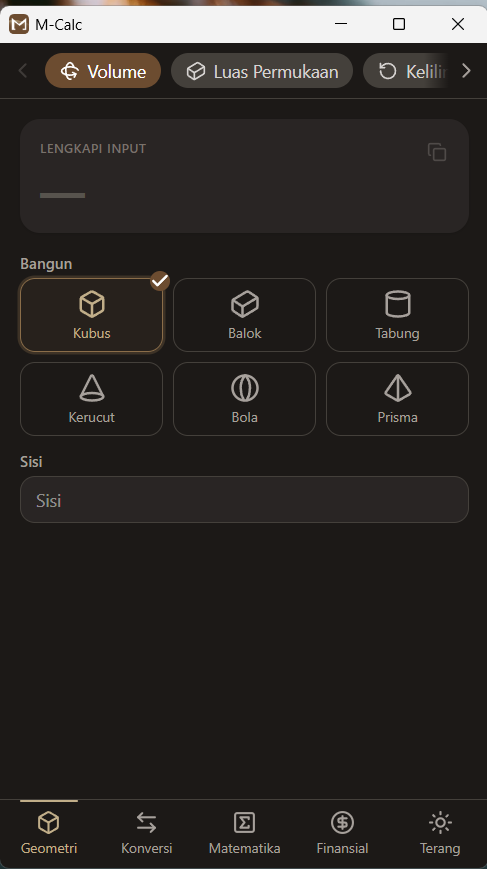
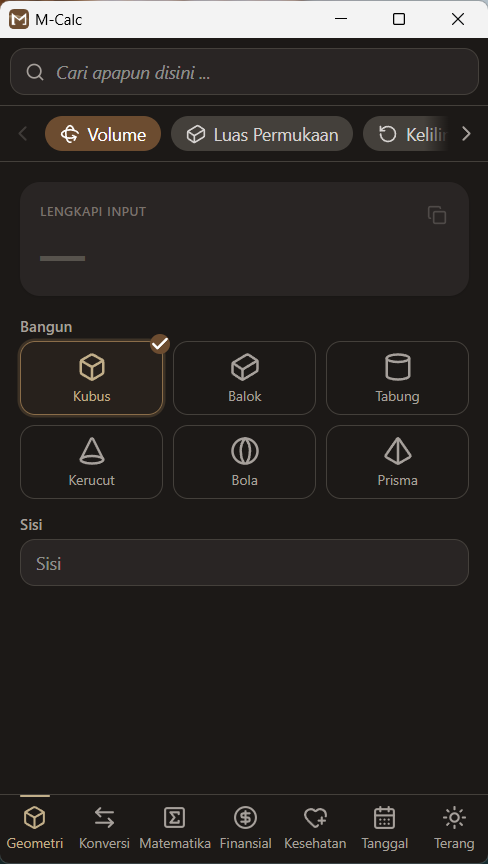
Update README for v0.2.x: 58 tools, search, new screenshots (no emoji)

diff --git a/README.md b/README.md
@@ -1,18 +1,22 @@
 # M-Calc
 
-Kalkulator serbaguna **ringan** untuk desktop Windows — 32 alat hitung dalam satu
-jendela compact. Penulisan ulang `kalkulator-serbaguna` (single-file HTML) menjadi
-aplikasi native dengan Tauri.
+Kalkulator serbaguna **ringan** untuk desktop Windows — 58 alat hitung dalam satu
+jendela compact, lengkap dengan pencarian global. Penulisan ulang
+`kalkulator-serbaguna` (single-file HTML) menjadi aplikasi native dengan Tauri.
 
 <p align="center">
-  <img src="screenshots/light.png" width="300" alt="M-Calc mode terang" />
-  &nbsp;&nbsp;
-  <img src="screenshots/dark.png" width="300" alt="M-Calc mode gelap" />
+  <img src="screenshots/light.png" width="260" alt="M-Calc mode terang" />
+  &nbsp;
+  <img src="screenshots/dark.png" width="260" alt="M-Calc mode gelap" />
+  &nbsp;
+  <img src="screenshots/search.png" width="260" alt="Pencarian global M-Calc" />
 </p>
 
-## ✨ Fitur
+## Fitur
 
-- **32 alat** dalam 4 kategori (navigasi bottom-tabs + chip per alat)
+- **58 alat** dalam 6 kategori (navigasi bottom-tabs + chip per alat)
+- **Pencarian global instan** — ketik kata kunci (mis. `persegi`, `ppn`, `bmi`);
+  hasil mencakup deep-link per bentuk, mendukung sinonim Indonesia dan Inggris
 - **Perhitungan live** — hasil langsung muncul saat mengetik, tanpa tombol
 - **Salin hasil** ke clipboard sekali klik
 - **Mode terang & gelap** dengan palet cokelat serasi logo
@@ -22,44 +26,52 @@ aplikasi native dengan Tauri.
 
 | Kategori | Alat |
 |---|---|
-| 📐 **Geometri** | Volume · Luas Permukaan · Keliling · Luas Datar · Pythagoras · Jarak 2 Titik · Diagonal · Juring & Busur · Gradien Garis |
-| 🔄 **Konversi** | Berat · Jarak · Suhu · Mata Uang · Waktu · Kecepatan · Luas · Volume Cairan · Data Digital · Bilangan (basis) |
-| % **Matematika** | Persentase · Pecahan · Skala · FPB & KPK · Persamaan Kuadrat · Statistik · Permutasi & Kombinasi |
-| 💰 **Finansial** | Diskon · Cicilan · Untung/Rugi · Margin & Markup · Bunga · Zakat |
+| **Geometri** | Volume · Luas Permukaan · Keliling · Luas Datar · Pythagoras · Jarak 2 Titik · Diagonal · Juring & Busur · Gradien Garis |
+| **Konversi** | Berat · Jarak · Suhu · Mata Uang · Waktu · Kecepatan · Luas · Volume Cairan · Data Digital · Bilangan (basis) · Tekanan · Energi · Daya · Sudut · Angka Romawi · Konsumsi BBM |
+| **Matematika** | Persentase · Pecahan · Skala · FPB & KPK · Persamaan Kuadrat · Statistik · Permutasi & Kombinasi · Trigonometri · Logaritma & Pangkat · Barisan & Deret · Faktorisasi Prima |
+| **Finansial** | Diskon · Cicilan · Untung/Rugi · Margin & Markup · Bunga · Zakat · PPN/Pajak · KPR/Anuitas · Target Tabungan · Patungan/Split Bill · BEP |
+| **Kesehatan** | BMI · Berat Ideal · BMR & Kalori · Kebutuhan Air · Lemak Tubuh · HPL Kehamilan |
+| **Tanggal** | Selisih Tanggal · Hitung Umur · Tambah/Kurang Hari · Hari Kerja · Hitung Mundur |
 
-## ⬇️ Unduh
+## Unduh
 
 Ambil installer terbaru di **[Releases](https://github.com/s4rt4/mcalc/releases/latest)**:
 unduh `m-calc_x.y.z_x64-setup.exe`, jalankan (per-user, tanpa admin), Windows x64.
+Installer mendeteksi versi terpasang dan meng-upgrade in-place tanpa perlu uninstall
+versi sebelumnya.
 
-## 🛠 Tech stack
+## Tech stack
 
 - **Tauri 2** (Rust + WebView2) — binary kecil, hemat RAM
 - **Svelte 5** (runes) + **Vite 6** + **TypeScript**
 - **Tailwind CSS v4**
 
-Bundle frontend: ~82 KB JS / ~14 KB CSS (≈30 KB gzip).
+Bundle frontend: ~123 KB JS / ~20 KB CSS (sekitar 43 KB gzip).
 
-## 🧩 Arsitektur
+## Arsitektur
 
 Tiap alat didefinisikan secara *data-driven* di `src/lib/tools/`
-(`geometri` · `konversi` · `matematika` · `finansial`) sebagai objek `Tool`
-berisi field deklaratif + fungsi `compute` murni, lalu dirender oleh satu
-komponen generik `ToolView.svelte`. Menambah alat = menambah satu objek.
+(`geometri` · `konversi` · `matematika` · `finansial` · `kesehatan` · `tanggal`)
+sebagai objek `Tool` berisi field deklaratif + fungsi `compute` murni, lalu
+dirender oleh satu komponen generik `ToolView.svelte`. Menambah alat = menambah
+satu objek. Pencarian global dibangun otomatis dari label, kategori, dan kata
+kunci tiap alat.
 
 ```
 src/
-├─ App.svelte              # shell: chip row + konten + bottom bar
+├─ App.svelte              # shell: searchbar + chip row + konten + bottom bar
 ├─ lib/
 │  ├─ ToolView.svelte      # renderer generik (display + input)
-│  ├─ Field.svelte         # input / dropdown / shape-picker
+│  ├─ Field.svelte         # input / dropdown / shape-picker / date
+│  ├─ search.ts            # indeks & pencarian global
+│  ├─ dateutil.ts          # util tanggal
 │  ├─ types.ts, format.ts
-│  └─ tools/               # definisi 32 alat
+│  └─ tools/               # definisi 58 alat (6 kategori)
 svg/                       # logo + ikon (lucide, currentColor)
 src-tauri/                 # backend Rust + konfigurasi + installer
 ```
 
-## 💻 Pengembangan
+## Pengembangan
 
 ```bash
 pnpm install
@@ -67,12 +79,12 @@ pnpm tauri dev      # dev (port 1430 — sengaja beda agar tak bentrok project T
 pnpm tauri build --bundles nsis   # installer Windows (.exe)
 ```
 
-## 🎨 Kustomisasi tema
+## Kustomisasi tema
 
 Palet aksen dipusatkan di blok `@theme` pada `src/app.css` — ubah 4 baris hex
 `--color-brand-*` untuk mengganti seluruh aksen aplikasi.
 
-## 📝 Catatan
+## Catatan
 
 - Kurs mata uang masih **statik** (USD/IDR/EUR/JPY).
 - Ikon & logo: SVG di `svg/` (format lucide `currentColor`); app icon di-generate
@@ -80,4 +92,4 @@ Palet aksen dipusatkan di blok `@theme` pada `src/app.css` — ubah 4 baris hex
 
 ## Lisensi
 
-MIT © Sarta
+MIT (c) Sarta